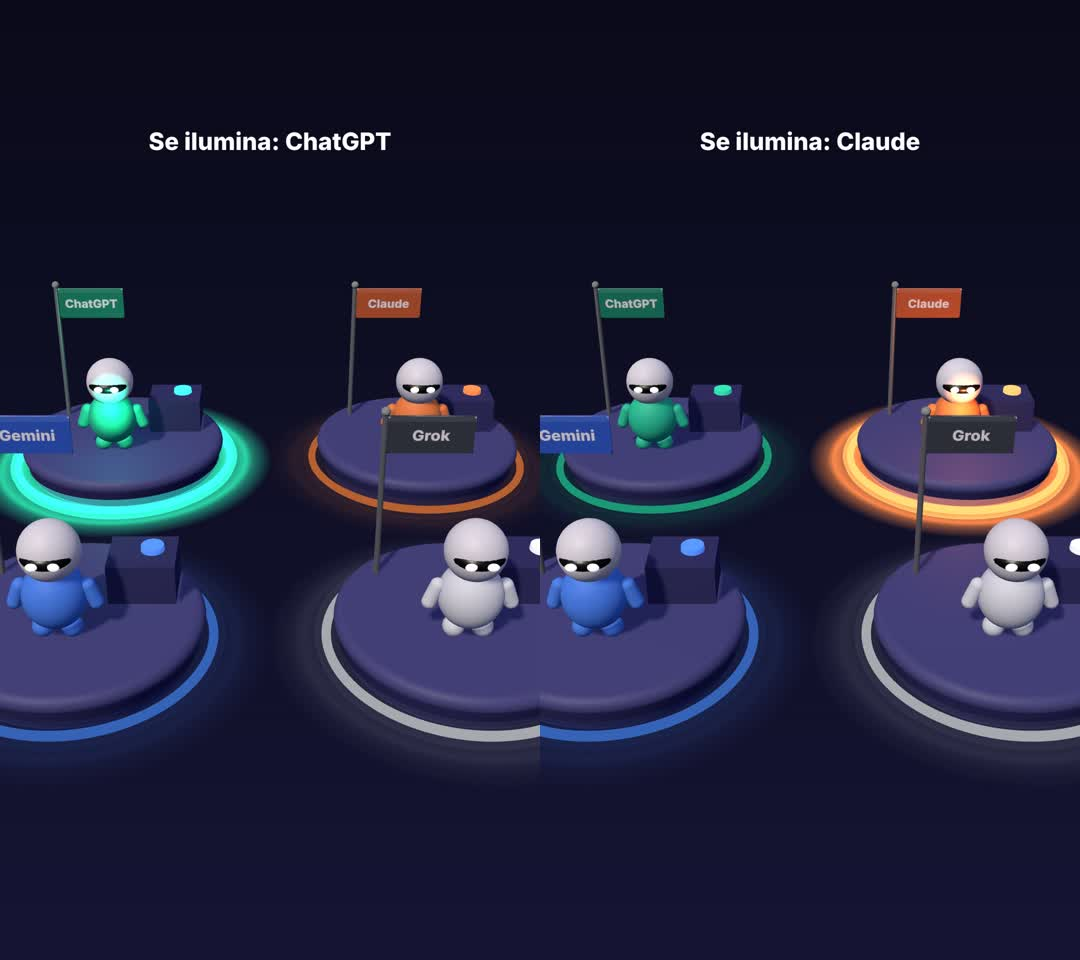
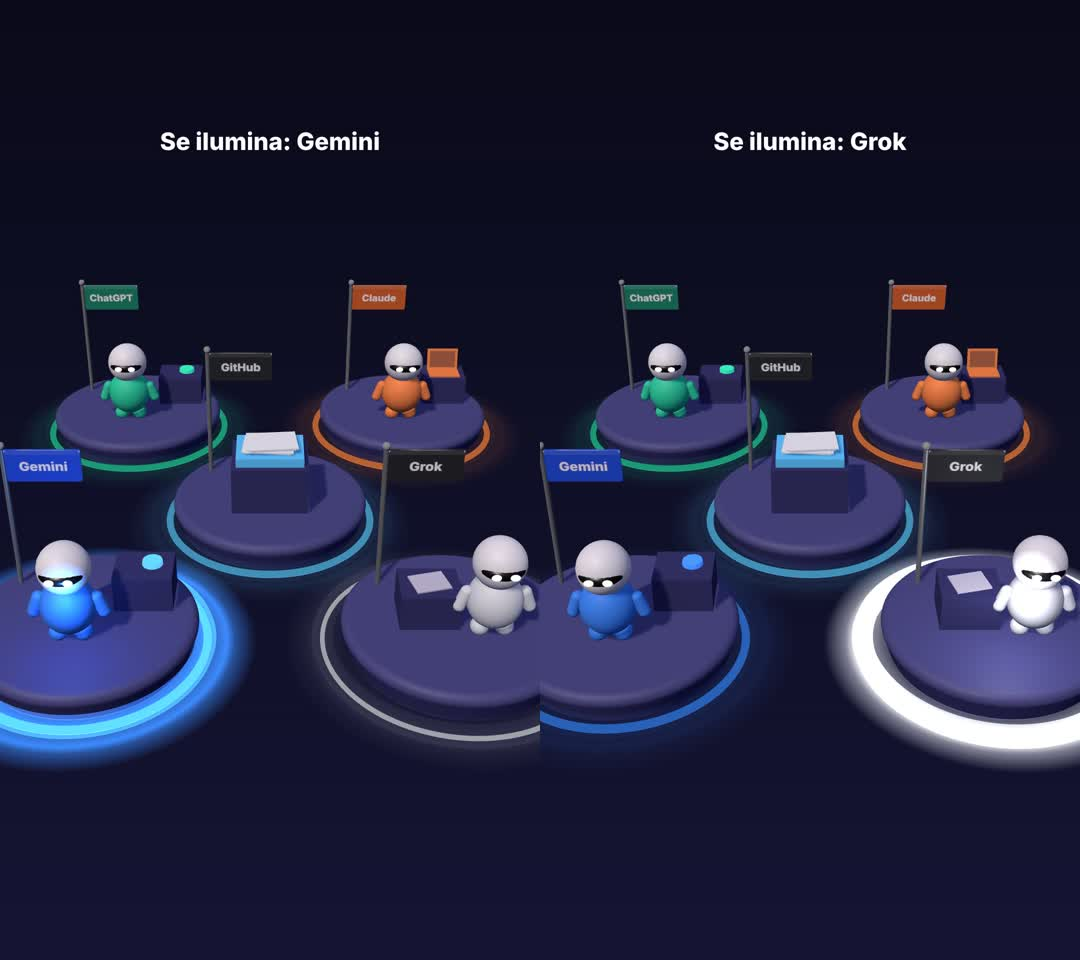
Islitas: detalles por IA según referencias (Grok, Claude, GitHub)
Claude-Session: https://claude.ai/code/session_016Hpyg3vebFKwHSnTQ2rALx

Changed region(s): [[0.0, 0.2812, 1.0, 0.8125], [0.1222, 0.125, 0.3667, 0.1562], [0.6417, 0.125, 0.8556, 0.1562]]

diff --git a/escenarios/islas-ia/islas.js b/escenarios/islas-ia/islas.js
@@ -2,7 +2,7 @@
 // Plataforma violeta redondeada, aro de neón del color de la IA (con resplandor),
 // bandera con el nombre en un mástil plateado, pedestal violeta con botón del color
 // y el robot chibi adelante. isla.luz(k) la ilumina (0 = tenue, 1 = encendida).
-const ISLA_IAS = { chatgpt: ['ChatGPT', 0x2bd6a6, '#13896b'], claude: ['Claude', 0xff8a4c, '#cf5f36'], gemini: ['Gemini', 0x4f8dff, '#2f5fd0'], grok: ['Grok', 0xe8ecf4, '#3a3f4c'] };
+const ISLA_IAS = { chatgpt: ['ChatGPT', 0x2bd6a6, '#13896b'], claude: ['Claude', 0xff8a4c, '#d9622b'], gemini: ['Gemini', 0x3d8bff, '#1f4fe0'], grok: ['Grok', 0xdfe3ec, '#22242c'], github: ['GitHub', 0x5ec8ff, '#24292f'] };
 function brillo(color) { const c = document.createElement('canvas'); c.width = c.height = 256; const x = c.getContext('2d'); const g = x.createRadialGradient(128, 128, 70, 128, 128, 128); const col = '#' + color.toString(16).padStart(6, '0'); g.addColorStop(0, col + '00'); g.addColorStop(.62, col + 'ff'); g.addColorStop(.72, col + '88'); g.addColorStop(1, col + '00'); x.fillStyle = g; x.fillRect(0, 0, 256, 256); const t = new THREE.CanvasTexture(c); t.colorSpace = THREE.SRGBColorSpace; return t; }
 function banderaTex(text, bg) { const c = document.createElement('canvas'); c.width = 640; c.height = 300; const x = c.getContext('2d'); x.fillStyle = bg; x.beginPath(); x.roundRect(0, 0, 640, 300, 26); x.fill(); x.fillStyle = 'rgba(255,255,255,.12)'; x.fillRect(0, 0, 640, 40); x.fillStyle = '#fff'; x.font = '800 118px I'; x.textAlign = 'center'; x.textBaseline = 'middle'; x.fillText(text, 320, 160); const t = new THREE.CanvasTexture(c); t.colorSpace = THREE.SRGBColorSpace; return t; }
 function crearIsla(n, R = 2.4) {
@@ -14,9 +14,10 @@ function crearIsla(n, R = 2.4) {
   mesh(new THREE.CylinderGeometry(R * .9, R * .9, R * .1, 64), violeta, [0, R * .24, 0], g);
   const top = R * .29;
   // aro de neón en la base + resplandor
-  const aroMat = new THREE.MeshBasicMaterial({ color: c }); const aro = mesh(new THREE.TorusGeometry(R * 1.02, R * .035, 12, 120), aroMat, [0, R * .05, 0], g, false); aro.rotation.x = Math.PI / 2;
+  const aroR = n === 'grok' ? R * 1.12 : R * 1.02, aroT = n === 'grok' ? R * .02 : R * .035;
+  const aroMat = new THREE.MeshBasicMaterial({ color: c }); const aro = mesh(new THREE.TorusGeometry(aroR, aroT, 12, 120), aroMat, [0, R * .03, 0], g, false); aro.rotation.x = Math.PI / 2;
   const halo = mesh(new THREE.PlaneGeometry(R * 2.9, R * 2.9), new THREE.MeshBasicMaterial({ map: brillo(c), transparent: true, depthWrite: false, blending: THREE.AdditiveBlending }), [0, R * .02, 0], g, false); halo.rotation.x = -Math.PI / 2;
-  const halo2 = mesh(new THREE.TorusGeometry(R * 1.02, R * .09, 10, 120), new THREE.MeshBasicMaterial({ color: c, transparent: true, opacity: .25, depthWrite: false, blending: THREE.AdditiveBlending }), [0, R * .05, 0], g, false); halo2.rotation.x = Math.PI / 2;
+  const halo2 = mesh(new THREE.TorusGeometry(aroR, R * .09, 10, 120), new THREE.MeshBasicMaterial({ color: c, transparent: true, opacity: .25, depthWrite: false, blending: THREE.AdditiveBlending }), [0, R * .05, 0], g, false); halo2.rotation.x = Math.PI / 2;
   // bandera
   const mastil = new THREE.Group(); mastil.position.set(-R * .62, top, -R * .5); g.add(mastil);
   mesh(new THREE.CylinderGeometry(R * .022, R * .022, R * 1.35, 12), M(0xc8ccd6, { metalness: .8, roughness: .25 }), [0, R * .675, 0], mastil);
@@ -26,8 +27,13 @@ function crearIsla(n, R = 2.4) {
   const ped = new THREE.Group(); ped.position.set(R * .5, top, -R * .3); g.add(ped);
   mesh(new THREE.BoxGeometry(R * .5, R * .32, R * .42), violetaOsc, [0, R * .16, 0], ped);
   const boton = mesh(new THREE.CylinderGeometry(R * .085, R * .09, R * .04, 24), new THREE.MeshStandardMaterial({ color: c, emissive: c, emissiveIntensity: .6 }), [R * .07, R * .34, -R * .03], ped);
+  if (n === 'grok') { boton.visible = false; ped.position.set(-R * .25, top, -R * .05); const hoja = mesh(new THREE.BoxGeometry(R * .3, R * .012, R * .24), M(0xc9c6dc, { roughness: .8 }), [0, R * .33, 0], ped); hoja.rotation.y = .25; }
+  if (n === 'claude') { boton.visible = false; const base = mesh(new THREE.BoxGeometry(R * .36, R * .02, R * .26), M(0xff8a4c, { roughness: .4 }), [0, R * .33, R * .03], ped); const tapa = mesh(new THREE.BoxGeometry(R * .36, R * .24, R * .02), M(0xff8a4c, { roughness: .4 }), [0, R * .45, -R * .1], ped); tapa.rotation.x = -.25; const pant = mesh(new THREE.PlaneGeometry(R * .3, R * .19), new THREE.MeshStandardMaterial({ color: 0x1b1a2e, emissive: 0xff8a4c, emissiveIntensity: .25 }), [0, R * .45, -R * .085], ped, false); pant.rotation.x = -.25; }
+  if (n === 'github') { boton.visible = false; const bandeja = mesh(new THREE.BoxGeometry(R * .44, R * .06, R * .34), new THREE.MeshStandardMaterial({ color: 0x5ec8ff, emissive: 0x1a4a70, emissiveIntensity: .5 }), [0, R * .35, 0], ped); for (let i = 0; i < 4; i++) { const p = mesh(new THREE.BoxGeometry(R * .32, R * .008, R * .24), M(0xf4f6fb), [R * (i * .01 - .015), R * (.39 + i * .012), R * (i % 2 ? .01 : -.01)], ped); p.rotation.y = (i - 1.5) * .06; } }
   // robot
   const bot = makeBot(c); bot.scale.setScalar(R * .72); bot.position.set(-R * .05, top, R * .22); g.add(bot);
+  if (n === 'grok') bot.position.set(R * .25, top, R * .15);
+  if (n === 'github') { bot.visible = false; ped.position.set(0, top, R * .05); ped.scale.setScalar(1.5); }
   const luzIA = new THREE.PointLight(c, 0, R * 3); luzIA.position.set(0, R * .9, R * .6); g.add(luzIA);
   g.userData = { lab, c, f, bot, aro, halo, halo2, boton, luzIA, top,
     luz(k) { k = Math.max(0, Math.min(1, k)); aroMat.color.setHex(c).multiplyScalar(.4 + .6 * k); halo.material.opacity = .12 + .88 * k; halo2.material.opacity = .05 + .55 * k; aro.scale.setScalar(1 + .015 * k); boton.material.emissiveIntensity = .5 + 1.5 * k; luzIA.intensity = 6 * k; } };

diff --git a/escenarios/islas-ia/LEEME.md b/escenarios/islas-ia/LEEME.md
@@ -4,7 +4,7 @@ Estilo tomado de las referencias de Gonzalo (`referencias/recibidas/01-chatgpt-h
 - Plataforma violeta redondeada.
 - Aro de neón del color de cada IA, con resplandor.
 - Bandera con el nombre en un mástil plateado.
-- Pedestal violeta con botón del color.
+- Pedestal violeta con botón del color (Grok: aro blanco más fino y separado, y una hoja en el pedestal; Claude: portátil naranja; GitHub: bandeja celeste con papeles, sin robot).
 - El robot chibi adelante.
 
 **Regla:** en cada video, cada IA está sobre su islita, y **la islita se ilumina cuando se nombra a esa IA o cuando habla**: `isla.userData.luz(1)`. Las demás quedan tenues: `luz(0)`.
